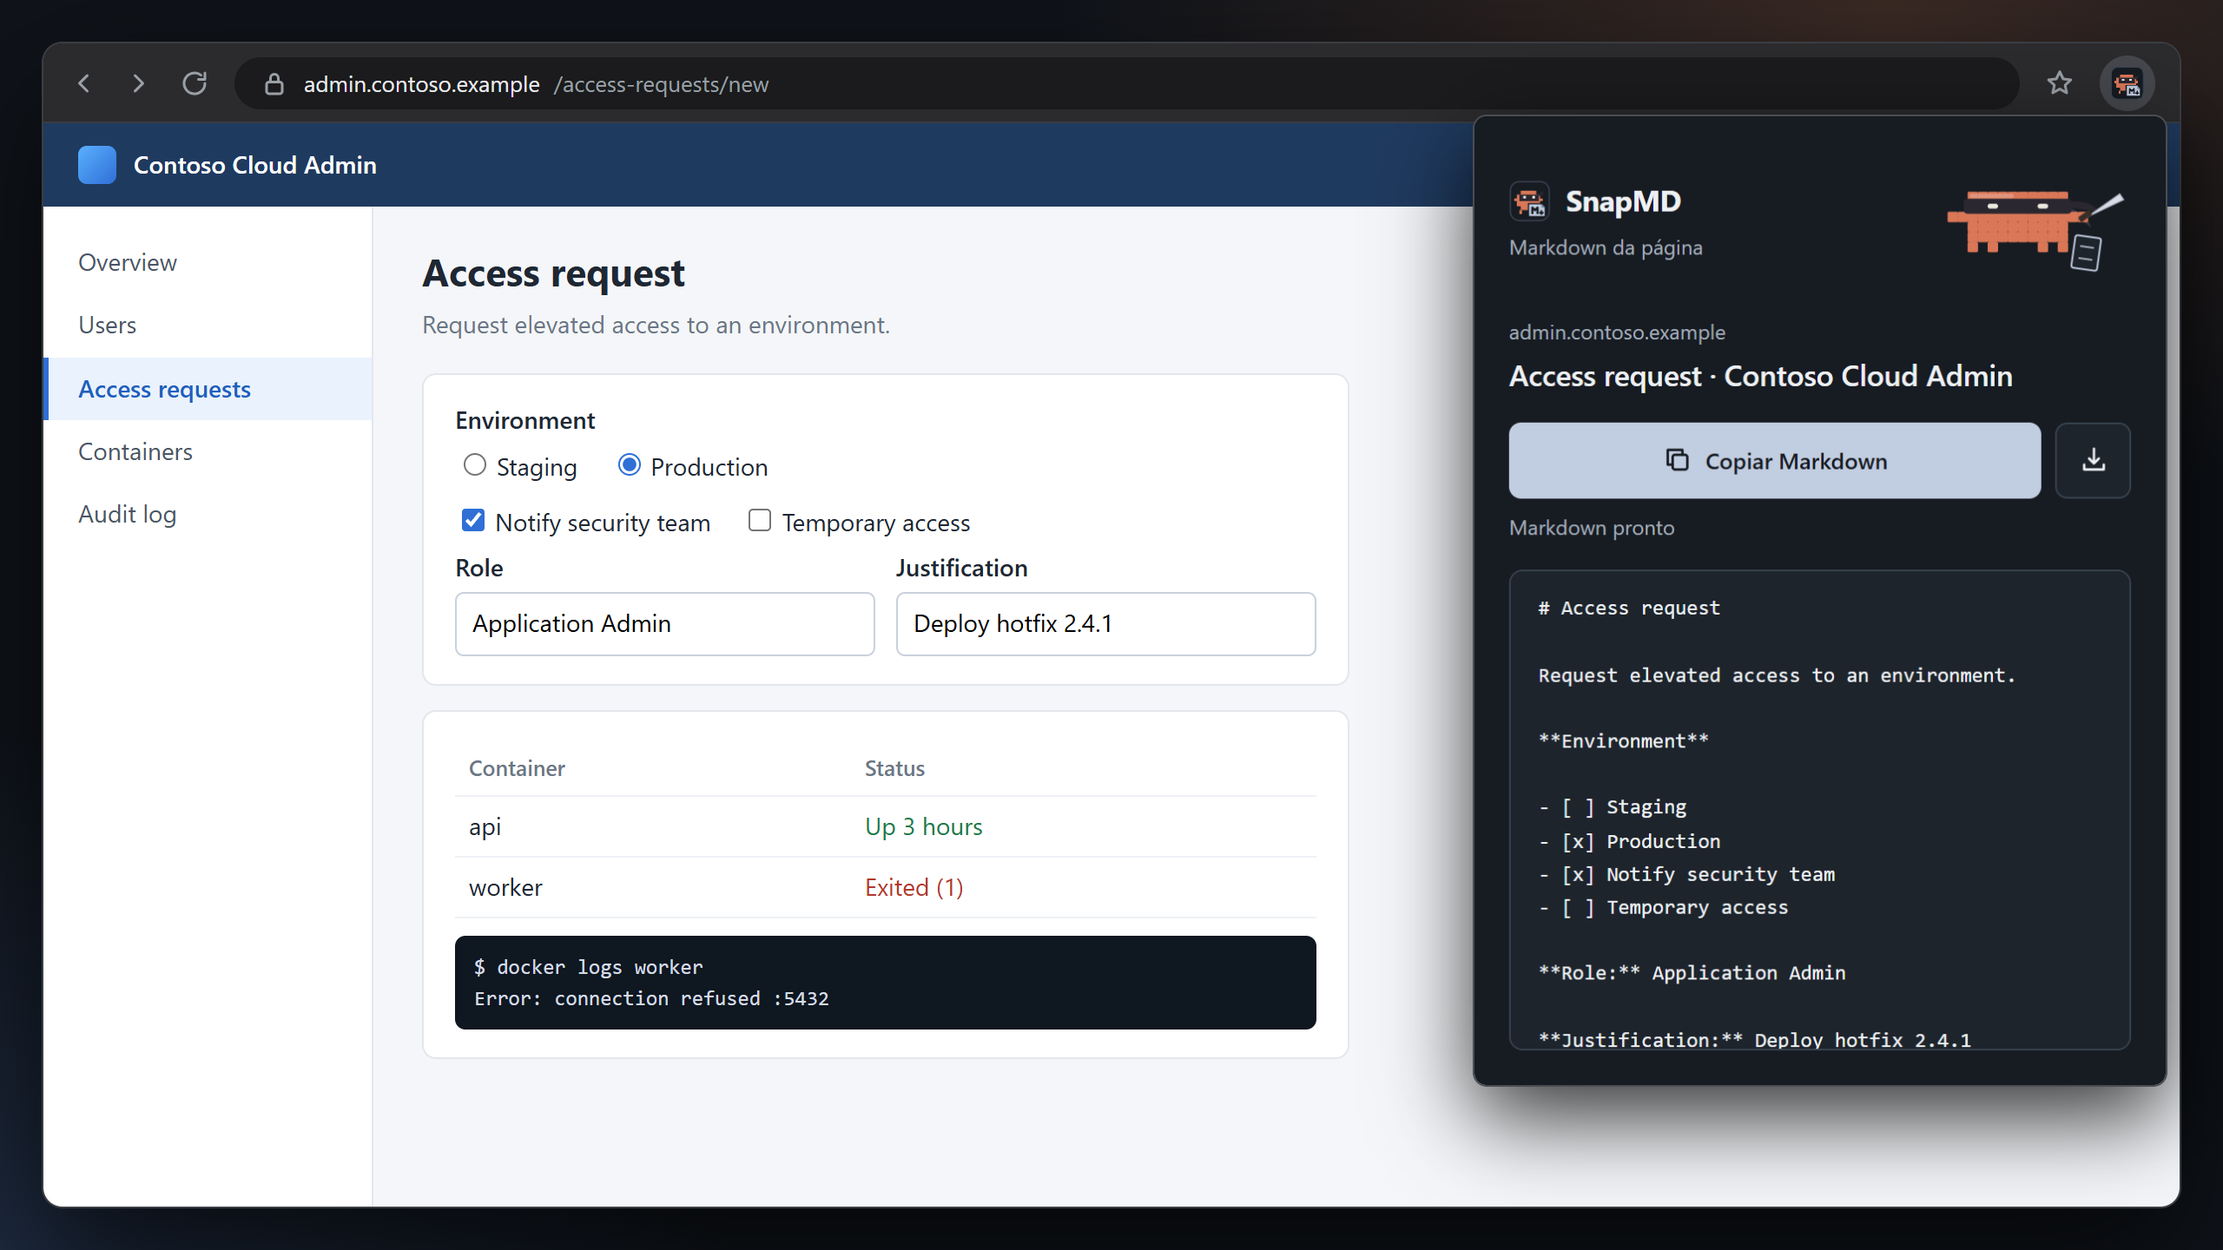
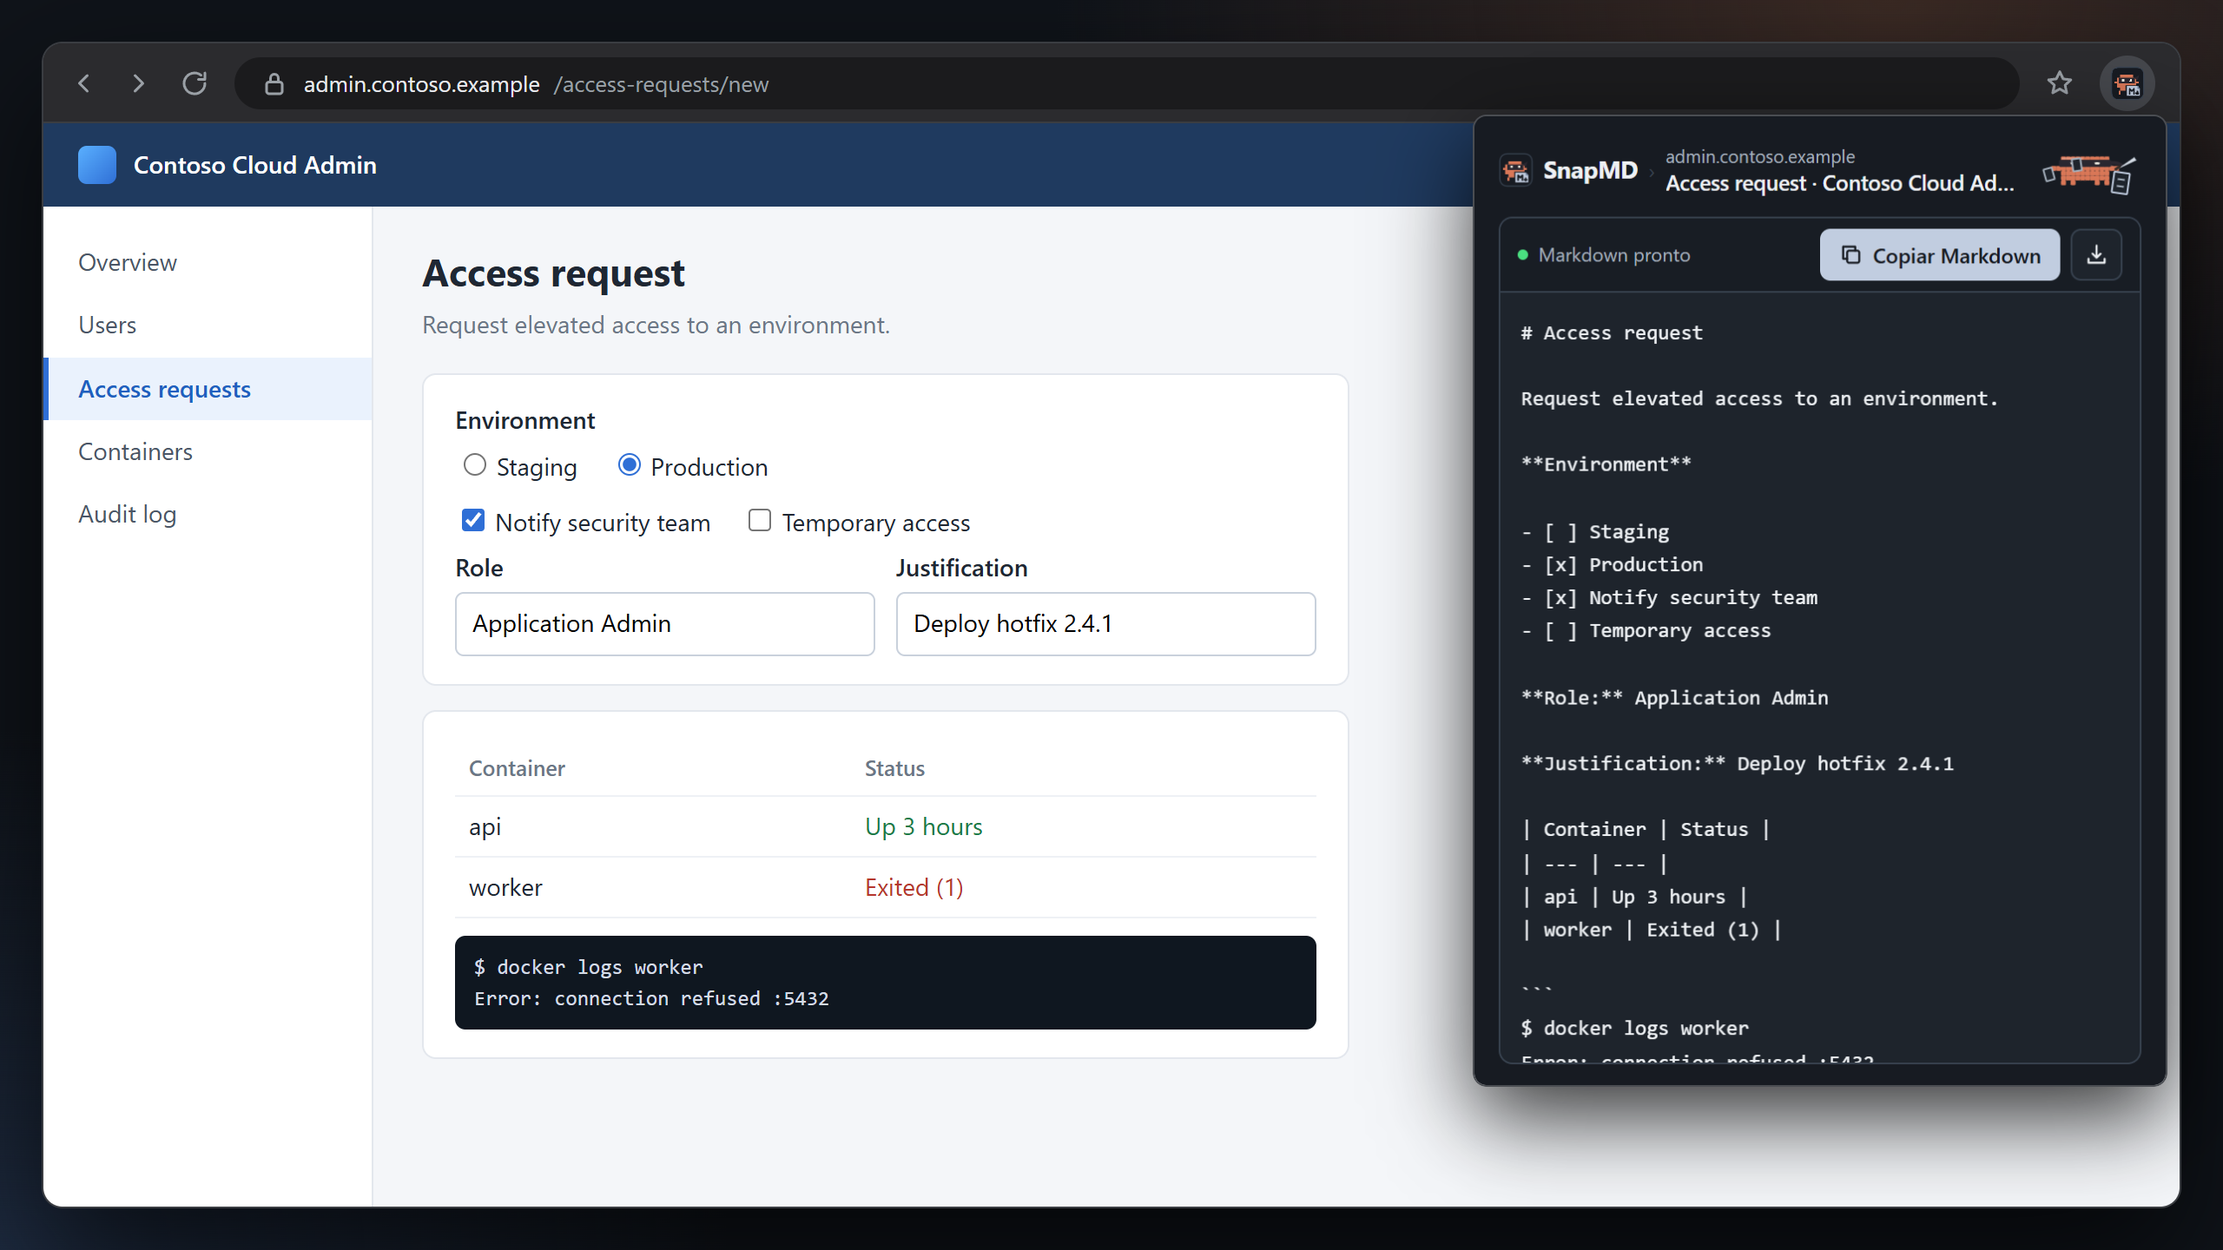
feat: release 1.6.0 com HUD estilo Code Card e melhorias de micro-UX

Changed region(s): [[0.6562, 0.25, 0.9688, 0.7812], [0.6562, 0.125, 0.9688, 0.25], [0.6875, 0.8125, 0.875, 0.875]]

diff --git a/popup.css b/popup.css
@@ -1,2 +1,1 @@
-*{box-sizing:border-box}html,body{margin:0}body{font:14px/1.4 "Segoe UI",system-ui,sans-serif;color:var(--text);background:var(--bg)}.popup{width:var(--width);height:var(--height);padding:20px;display:flex;flex-direction:column;overflow:hidden;gap:16px}header{display:flex;align-items:center;justify-content:space-between;flex-shrink:0;min-height:64px}.brand{display:flex;gap:9px;align-items:center;font-size:17px;font-weight:650;letter-spacing:-.3px}.brand img{height:24px;width:24px}.pet{display:block;width:90px;height:64px;object-fit:contain}.source{font-size:12px;color:var(--muted)}h1{font-size:17px;line-height:1.35;font-weight:600;margin:5px 0 0;letter-spacing:-.15px}.context{flex-shrink:0}.label{font-size:12px;color:var(--muted);margin:6px 0 0}.actions{display:flex;gap:8px;flex-shrink:0}button{display:inline-flex;align-items:center;justify-content:center;gap:8px;min-height:44px;min-width:40px;border:1px solid var(--border);border-radius:7px;padding:0 14px;font:600 13px "Segoe UI",sans-serif;cursor:pointer;background:var(--surface);color:var(--text);transition:background 120ms}button svg{width:17px;height:17px;flex-shrink:0}.primary{flex:1;color:var(--button-text);background:var(--accent);border-color:var(--accent)}button:hover{filter:brightness(1.08)}.primary:hover{filter:brightness(.94)}button:focus-visible,pre:focus-visible,a:focus-visible{outline:2px solid var(--accent);outline-offset:3px}button:active{transform:translateY(1px)}.status{min-height:16px;margin:0;font-size:12px;color:var(--muted)}pre{flex:1;min-height:0;overflow:auto;margin:0;padding:16px;border:1px solid var(--border);border-radius:8px;background:var(--surface);color:var(--text);font:12px/1.6 Consolas,"Cascadia Code",monospace;white-space:pre-wrap;overflow-wrap:anywhere;scrollbar-width:thin;scrollbar-color:var(--border) transparent}pre::-webkit-scrollbar{width:6px}pre::-webkit-scrollbar-thumb{background:var(--border);border-radius:5px}[hidden]{display:none!important}@media(prefers-reduced-motion:reduce){*{transition:none!important}}:root{--width:400px;--height:560px;--bg:#171b22;--surface:#1e242c;--text:#eef1f4;--muted:#a5b0bd;--accent:#c1cde0;--button-text:#171b22;--border:#37414e}.actions{align-items:stretch}.icon-button{padding:0;width:44px}.action-block{display:flex;flex-direction:column;gap:8px;flex-shrink:0}.status:empty{display:none}.pet{width:112px;height:80px}body{display:flex;justify-content:center;gap:32px;padding:32px;background:#11151b}.popup{border:1px solid var(--border);border-radius:12px;background:var(--bg)}.pet-stage{position:relative;width:112px;height:80px;flex-shrink:0}.pet-stage .pet{position:absolute;inset:0}.paper{position:absolute;right:18px;bottom:11px;width:16px;height:20px;border:1px solid #c1cde0;border-radius:2px;background:#1e242c;transform:rotate(8deg)}.paper:after{content:"";position:absolute;inset:5px 3px;border-top:1px solid #a5b0bd;border-bottom:1px solid #a5b0bd}.leaf{position:absolute;width:9px;height:12px;border:1px solid #a5b0bd;border-radius:1px;background:#1e242c;opacity:0;left:0;top:12px}.leaf:nth-child(3){top:34px;left:-8px;animation-delay:180ms!important}.leaf:nth-child(4){top:57px;left:4px;animation-delay:340ms!important}.extracting .leaf,.pet-stage.collecting .leaf{animation:collect 600ms ease-in infinite}.copied .pet-stage{animation:celebrate 400ms ease-in-out}button:disabled{cursor:default;opacity:.45;filter:none}
-html,body{width:400px;height:560px;padding:0;margin:0;overflow:hidden}body{display:block;background:var(--bg)}.popup{border:0;border-radius:0}.source{display:block;overflow:hidden;text-overflow:ellipsis;white-space:nowrap}h1{display:-webkit-box;-webkit-line-clamp:2;-webkit-box-orient:vertical;overflow:hidden;overflow-wrap:anywhere}.context{min-width:0}.error .paper{opacity:.4}.error-panel{flex:1;min-height:0;padding:16px;border:1px solid var(--border);border-radius:8px;background:var(--surface)}.error-panel p{color:var(--muted)}@keyframes collect{0%{opacity:0;transform:translate(0,0) rotate(-18deg)}20%,90%{opacity:1}100%{opacity:0;transform:translate(72px,36px) rotate(8deg)}}@keyframes celebrate{0%,100%{transform:translateY(0)}40%{transform:translateY(-2px)}70%{transform:translateY(1px)}}@media(prefers-reduced-motion:reduce){*{animation:none!important;transition:none!important}.extracting .leaf,.pet-stage.collecting .leaf{opacity:1}}
+*{box-sizing:border-box}html,body{margin:0;width:400px;height:560px;padding:0;overflow:hidden}:root{--width:400px;--height:560px;--bg:#171b22;--surface:#1e242c;--text:#eef1f4;--muted:#a5b0bd;--accent:#c1cde0;--button-text:#171b22;--border:#37414e}body{font:13px/1.4 "Segoe UI",system-ui,sans-serif;color:var(--text);background:var(--bg);display:block}.popup{width:400px;height:560px;padding:12px 14px;display:flex;flex-direction:column;overflow:hidden;gap:8px;border:0;border-radius:0}.header-bar{display:flex;align-items:center;justify-content:space-between;flex-shrink:0;min-height:38px}.context-group{display:flex;align-items:center;gap:6px;min-width:0;flex:1}.brand{display:flex;gap:6px;align-items:center;font-size:14px;font-weight:650;letter-spacing:-.3px;flex-shrink:0}.brand img{height:20px;width:20px}.sep{color:var(--border);font-size:13px;flex-shrink:0}.page-meta{min-width:0;flex:1;display:flex;flex-direction:column;justify-content:center}.source{font-size:10.5px;color:var(--muted);display:block;overflow:hidden;text-overflow:ellipsis;white-space:nowrap}.page-title{font-size:12.5px;line-height:1.25;font-weight:600;margin:0;letter-spacing:-.15px;color:var(--text);display:block;overflow:hidden;text-overflow:ellipsis;white-space:nowrap}.pet-stage{position:relative;width:56px;height:38px;flex-shrink:0;margin-left:8px}.pet-stage .pet{position:absolute;inset:0;width:100%;height:100%;object-fit:contain}.paper{position:absolute;right:7px;bottom:5px;width:10px;height:13px;border:1px solid #c1cde0;border-radius:1px;background:#1e242c;transform:rotate(8deg)}.paper:after{content:"";position:absolute;inset:3px 2px;border-top:1px solid #a5b0bd;border-bottom:1px solid #a5b0bd}.leaf{position:absolute;width:6px;height:8px;border:1px solid #a5b0bd;border-radius:1px;background:#1e242c;opacity:0;left:2px;top:6px}.leaf:nth-child(3){top:16px;left:-4px;animation-delay:180ms!important}.leaf:nth-child(4){top:26px;left:3px;animation-delay:340ms!important}.extracting .leaf,.pet-stage.collecting .leaf{animation:collect 600ms ease-in infinite}.copied .pet-stage{animation:celebrate 400ms ease-in-out}.code-card{flex:1;min-height:0;display:flex;flex-direction:column;border:1px solid var(--border);border-radius:8px;background:var(--surface);overflow:hidden}.card-toolbar{display:flex;align-items:center;justify-content:space-between;padding:6px 10px;background:#181d24;border-bottom:1px solid var(--border);flex-shrink:0;min-height:42px;gap:8px}.status-wrap{display:flex;align-items:center;gap:6px;min-width:0;flex:1}.status-dot{width:6px;height:6px;border-radius:50%;background:#4ade80;flex-shrink:0}.extracting .status-dot,.collecting .status-dot{background:#fbbf24;animation:pulseDot 1s infinite}.status{margin:0;font-size:11px;color:var(--muted);overflow:hidden;text-overflow:ellipsis;white-space:nowrap}.status:empty{display:none}.actions{display:flex;gap:6px;align-items:center;flex-shrink:0}button{display:inline-flex;align-items:center;justify-content:center;gap:6px;min-height:30px;min-width:30px;border:1px solid var(--border);border-radius:6px;padding:0 10px;font:600 12px "Segoe UI",sans-serif;cursor:pointer;background:var(--surface);color:var(--text);transition:background 120ms}button svg{width:14px;height:14px;flex-shrink:0}.primary{color:var(--button-text);background:var(--accent);border-color:var(--accent)}.icon-button{padding:0;width:30px}button:hover{filter:brightness(1.08)}.primary:hover{filter:brightness(.94)}button:focus-visible,pre:focus-visible,a:focus-visible{outline:2px solid var(--accent);outline-offset:2px}button:active{transform:translateY(1px)}button:disabled{cursor:default;opacity:.45;filter:none}pre{flex:1;min-height:0;overflow:auto;margin:0;padding:12px;border:none;border-radius:0;background:transparent;color:var(--text);font:12px/1.6 Consolas,"Cascadia Code",monospace;white-space:pre-wrap;overflow-wrap:anywhere;scrollbar-width:thin;scrollbar-color:var(--border) transparent}pre::-webkit-scrollbar{width:6px}pre::-webkit-scrollbar-thumb{background:var(--border);border-radius:5px}[hidden]{display:none!important}.error-panel{flex:1;min-height:0;padding:24px 16px;border:1px solid var(--border);border-radius:8px;background:var(--surface);display:flex;flex-direction:column;align-items:center;justify-content:center;text-align:center;gap:12px}.error-panel h2{font-size:15px;color:#f87171;margin:0}.error-panel p{font-size:12px;color:var(--muted);margin:0;max-width:280px;line-height:1.4}.error .paper{opacity:.4}.error .code-card{display:none!important}@keyframes collect{0%{opacity:0;transform:translate(0,0) rotate(-18deg)}20%,90%{opacity:1}100%{opacity:0;transform:translate(36px,16px) rotate(8deg)}}@keyframes celebrate{0%,100%{transform:translateY(0)}40%{transform:translateY(-2px)}70%{transform:translateY(1px)}}@keyframes pulseDot{0%,100%{opacity:1;transform:scale(1)}50%{opacity:.3;transform:scale(.85)}}@media(prefers-reduced-motion:reduce){*{animation:none!important;transition:none!important}.extracting .leaf,.pet-stage.collecting .leaf{opacity:1}}

diff --git a/popup.html b/popup.html
@@ -1,1 +1,1 @@
-<!doctype html><html lang="pt-BR"><head><meta charset="utf-8"><meta name="viewport" content="width=device-width,initial-scale=1"><title>SnapMD</title><link rel="stylesheet" href="popup.css"></head><body><main class="popup"><header><div><div class="brand"><img src="icons/icon-48.png" width="24" height="24" alt="" aria-hidden="true"><span>SnapMD</span></div><p class="label">Markdown da página</p></div><div class="pet-stage"><img class="pet" src="assets/ladino.svg" alt="Ladino do Hero Journey"><span class="paper" aria-hidden="true"></span><span class="leaf" aria-hidden="true"></span><span class="leaf" aria-hidden="true"></span><span class="leaf" aria-hidden="true"></span></div></header><section class="context" aria-label="Página extraída"><span class="source" id="source">Lendo página…</span><h1 id="pageTitle">Capturando conteúdo</h1></section><div class="action-block"><div class="actions"><button class="primary" id="btnCopy" disabled title="Copiar Markdown (Ctrl+Enter)"><svg aria-hidden="true" viewBox="0 0 24 24" fill="none" stroke="currentColor" stroke-width="2" stroke-linecap="round" stroke-linejoin="round"><rect x="8" y="8" width="12" height="12" rx="2"/><path d="M16 8V4H4v12h4"/></svg><span>Copiar Markdown</span></button><button class="secondary icon-button" id="btnDownload" disabled aria-label="Baixar .md" title="Baixar .md (Ctrl+S)"><svg aria-hidden="true" viewBox="0 0 24 24" fill="none" stroke="currentColor" stroke-width="2" stroke-linecap="round" stroke-linejoin="round"><path d="M12 3v12m-4-4 4 4 4-4M4 16v4h16v-4"/></svg></button></div><p id="status" class="status" role="status" aria-live="polite"></p></div><pre id="markdownPreview" aria-label="Markdown da página" tabindex="0"></pre><section class="error-panel" id="errorState" hidden><h2 id="errorTitle">Não foi possível capturar</h2><p id="errorDescription"></p><button id="btnRetry">Tentar novamente</button></section></main><script src="page-reader.js"></script><script src="popup.js"></script></body></html>
+<!doctype html><html lang="pt-BR"><head><meta charset="utf-8"><meta name="viewport" content="width=device-width,initial-scale=1"><title>SnapMD</title><link rel="stylesheet" href="popup.css"></head><body><main class="popup"><header class="header-bar"><div class="context-group"><div class="brand"><img src="icons/icon-48.png" width="20" height="20" alt="" aria-hidden="true"><span>SnapMD</span></div><span class="sep" aria-hidden="true">›</span><div class="page-meta"><span class="source" id="source">Lendo página…</span><h1 id="pageTitle" class="page-title">Capturando conteúdo</h1></div></div><div class="pet-stage"><img class="pet" src="assets/ladino.svg" alt="Ladino do Hero Journey"><span class="paper" aria-hidden="true"></span><span class="leaf" aria-hidden="true"></span><span class="leaf" aria-hidden="true"></span><span class="leaf" aria-hidden="true"></span></div></header><div class="code-card"><div class="card-toolbar"><div class="status-wrap"><span class="status-dot" aria-hidden="true"></span><p id="status" class="status" role="status" aria-live="polite"></p></div><div class="actions"><button class="primary" id="btnCopy" disabled title="Copiar Markdown (Ctrl+Enter)"><svg aria-hidden="true" viewBox="0 0 24 24" fill="none" stroke="currentColor" stroke-width="2" stroke-linecap="round" stroke-linejoin="round"><rect x="8" y="8" width="12" height="12" rx="2"/><path d="M16 8V4H4v12h4"/></svg><span>Copiar Markdown</span></button><button class="secondary icon-button" id="btnDownload" disabled aria-label="Baixar .md" title="Baixar .md (Ctrl+S)"><svg aria-hidden="true" viewBox="0 0 24 24" fill="none" stroke="currentColor" stroke-width="2" stroke-linecap="round" stroke-linejoin="round"><path d="M12 3v12m-4-4 4 4 4-4M4 16v4h16v-4"/></svg></button></div></div><pre id="markdownPreview" aria-label="Markdown da página" tabindex="0"></pre></div><section class="error-panel" id="errorState" hidden><h2 id="errorTitle">Não foi possível capturar</h2><p id="errorDescription"></p><button id="btnRetry">Tentar novamente</button></section></main><script src="page-reader.js"></script><script src="popup.js"></script></body></html>

diff --git a/popup.js b/popup.js
@@ -19,6 +19,7 @@ document.addEventListener('DOMContentLoaded', () => {
     }
     popup.className = `popup ${name}`;
     status.textContent = message;
+    status.title = message || '';
     preview.setAttribute('aria-busy', String(name === 'extracting'));
     error.hidden = name !== 'error';
     preview.hidden = name === 'error';
@@ -73,7 +74,7 @@ document.addEventListener('DOMContentLoaded', () => {
     data = null;
     const startTime = Date.now();
     petStage?.classList.add('collecting');
-    state('extracting', 'Reunindo o conteúdo da página…');
+    state('extracting', 'Extraindo…');
     preview.textContent = 'Extraindo o conteúdo da página…';
     try {
       const [tab] = await chrome.tabs.query({ active: true, currentWindow: true });
@@ -139,7 +140,7 @@ document.addEventListener('DOMContentLoaded', () => {
       celebrationTimer = setTimeout(() => popup.classList.remove('copied'), 400);
     } catch {
       popup.classList.remove('copied');
-      status.textContent = 'Não foi possível copiar. Tente novamente ou baixe o arquivo.';
+      status.textContent = status.title = 'Não foi possível copiar. Tente novamente ou baixe o arquivo.';
     } finally { copy.disabled = !data; }
   }
 
@@ -152,7 +153,7 @@ document.addEventListener('DOMContentLoaded', () => {
     link.download = `${title}-${new Date().toISOString().slice(0, 19).replace(/[T:]/g, '-')}.md`;
     link.click();
     setTimeout(() => URL.revokeObjectURL(url), 1000);
-    status.textContent = 'Download solicitado';
+    status.textContent = status.title = 'Download solicitado';
   }
 
   copy.addEventListener('click', copyMarkdown);

diff --git a/CHANGELOG.md b/CHANGELOG.md
@@ -4,14 +4,19 @@ All notable changes to SnapMD are listed here. The format follows [Keep a Change
 
 ## [Unreleased]
 
-### Added
-- English README with a Brazilian Portuguese translation (`README.pt-BR.md`), and a hero image and social preview rendered from the real popup over a sample page (`npm run hero`), plus a 16-second demo video and GIF of the real popup (`npm run demo`).
+## [1.6.0] - 2026-10-19
 
 ### Changed
+- Redesigned HUD with an integrated Code Card layout: actions (`Copy Markdown` and `Download`) and status badge moved to a unified top toolbar, expanding the Markdown preview area by 56% (from 240px to 375px).
+- Decoupled Rogue mascot collection animation (`.pet-stage.collecting`) with a 1000ms minimum duration in the background, allowing immediate action button access without blocking user productivity.
+- Respects `prefers-reduced-motion: reduce` for instant transitions without artificial delay.
 - New pixel-art icon with the Rogue holding a Markdown page, also shown next to the name in the popup header.
 - `package.json` with `check`, `test`, `hero` and `package` scripts.
 - GitHub Actions CI on Windows with Microsoft Edge: syntax check, end-to-end tests and the release ZIP as an artifact.
 - Issue and pull request templates, `CONTRIBUTING.md`, `SECURITY.md`, `CODE_OF_CONDUCT.md`, `.editorconfig`, `.gitattributes` and Dependabot.
+
+### Added
+- English README with a Brazilian Portuguese translation (`README.pt-BR.md`), and a hero image and social preview rendered from the real popup over a sample page (`npm run hero`), plus a 16-second demo video and GIF of the real popup (`npm run demo`).
 
 ### Removed
 - Unused images `assets/popup-1.3-preview.png` and `assets/snapmd-preview.jpg`.
@@ -44,7 +49,8 @@ All notable changes to SnapMD are listed here. The format follows [Keep a Change
 ### Added
 - First public release: full-page capture and the focused popup with the Rogue (Ladino) mascot.
 
-[Unreleased]: https://github.com/soulrocha/snapmd/compare/v1.5.0...HEAD
+[Unreleased]: https://github.com/soulrocha/snapmd/compare/v1.6.0...HEAD
+[1.6.0]: https://github.com/soulrocha/snapmd/compare/v1.5.0...v1.6.0
 [1.5.0]: https://github.com/soulrocha/snapmd/compare/v1.4.0...v1.5.0
 [1.4.0]: https://github.com/soulrocha/snapmd/compare/v1.3.1...v1.4.0
 [1.3.1]: https://github.com/soulrocha/snapmd/releases/tag/v1.3.1
